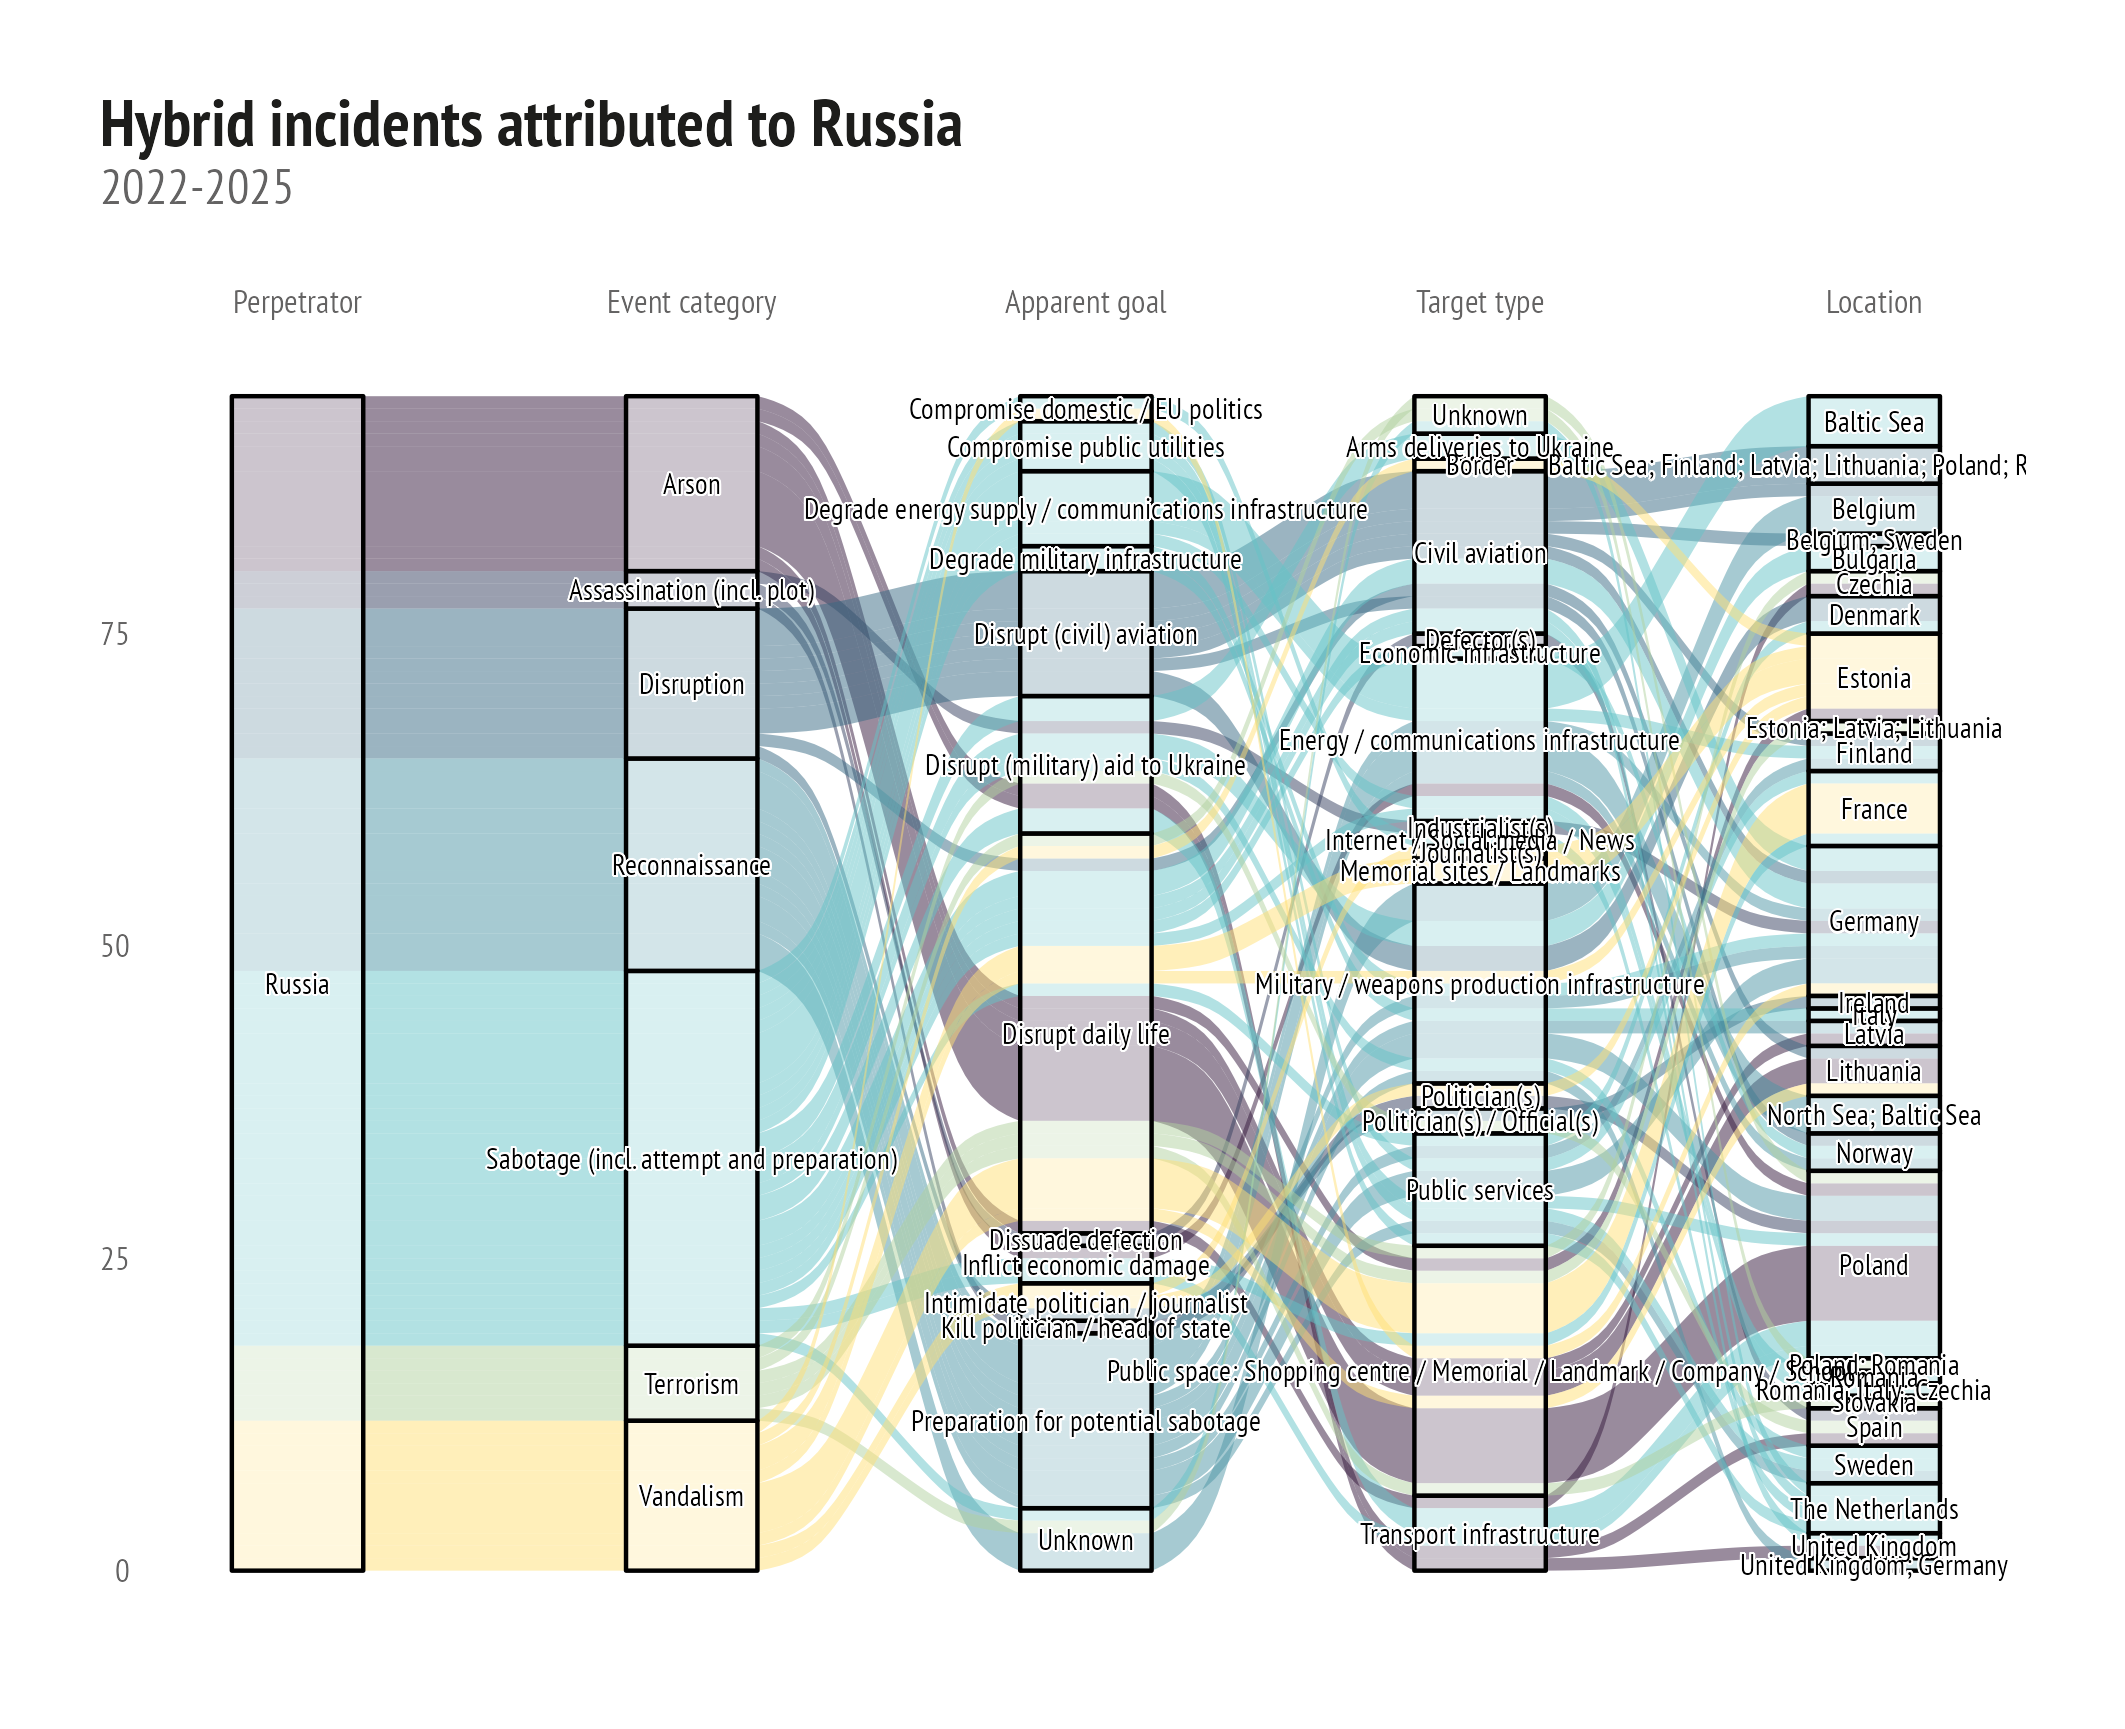
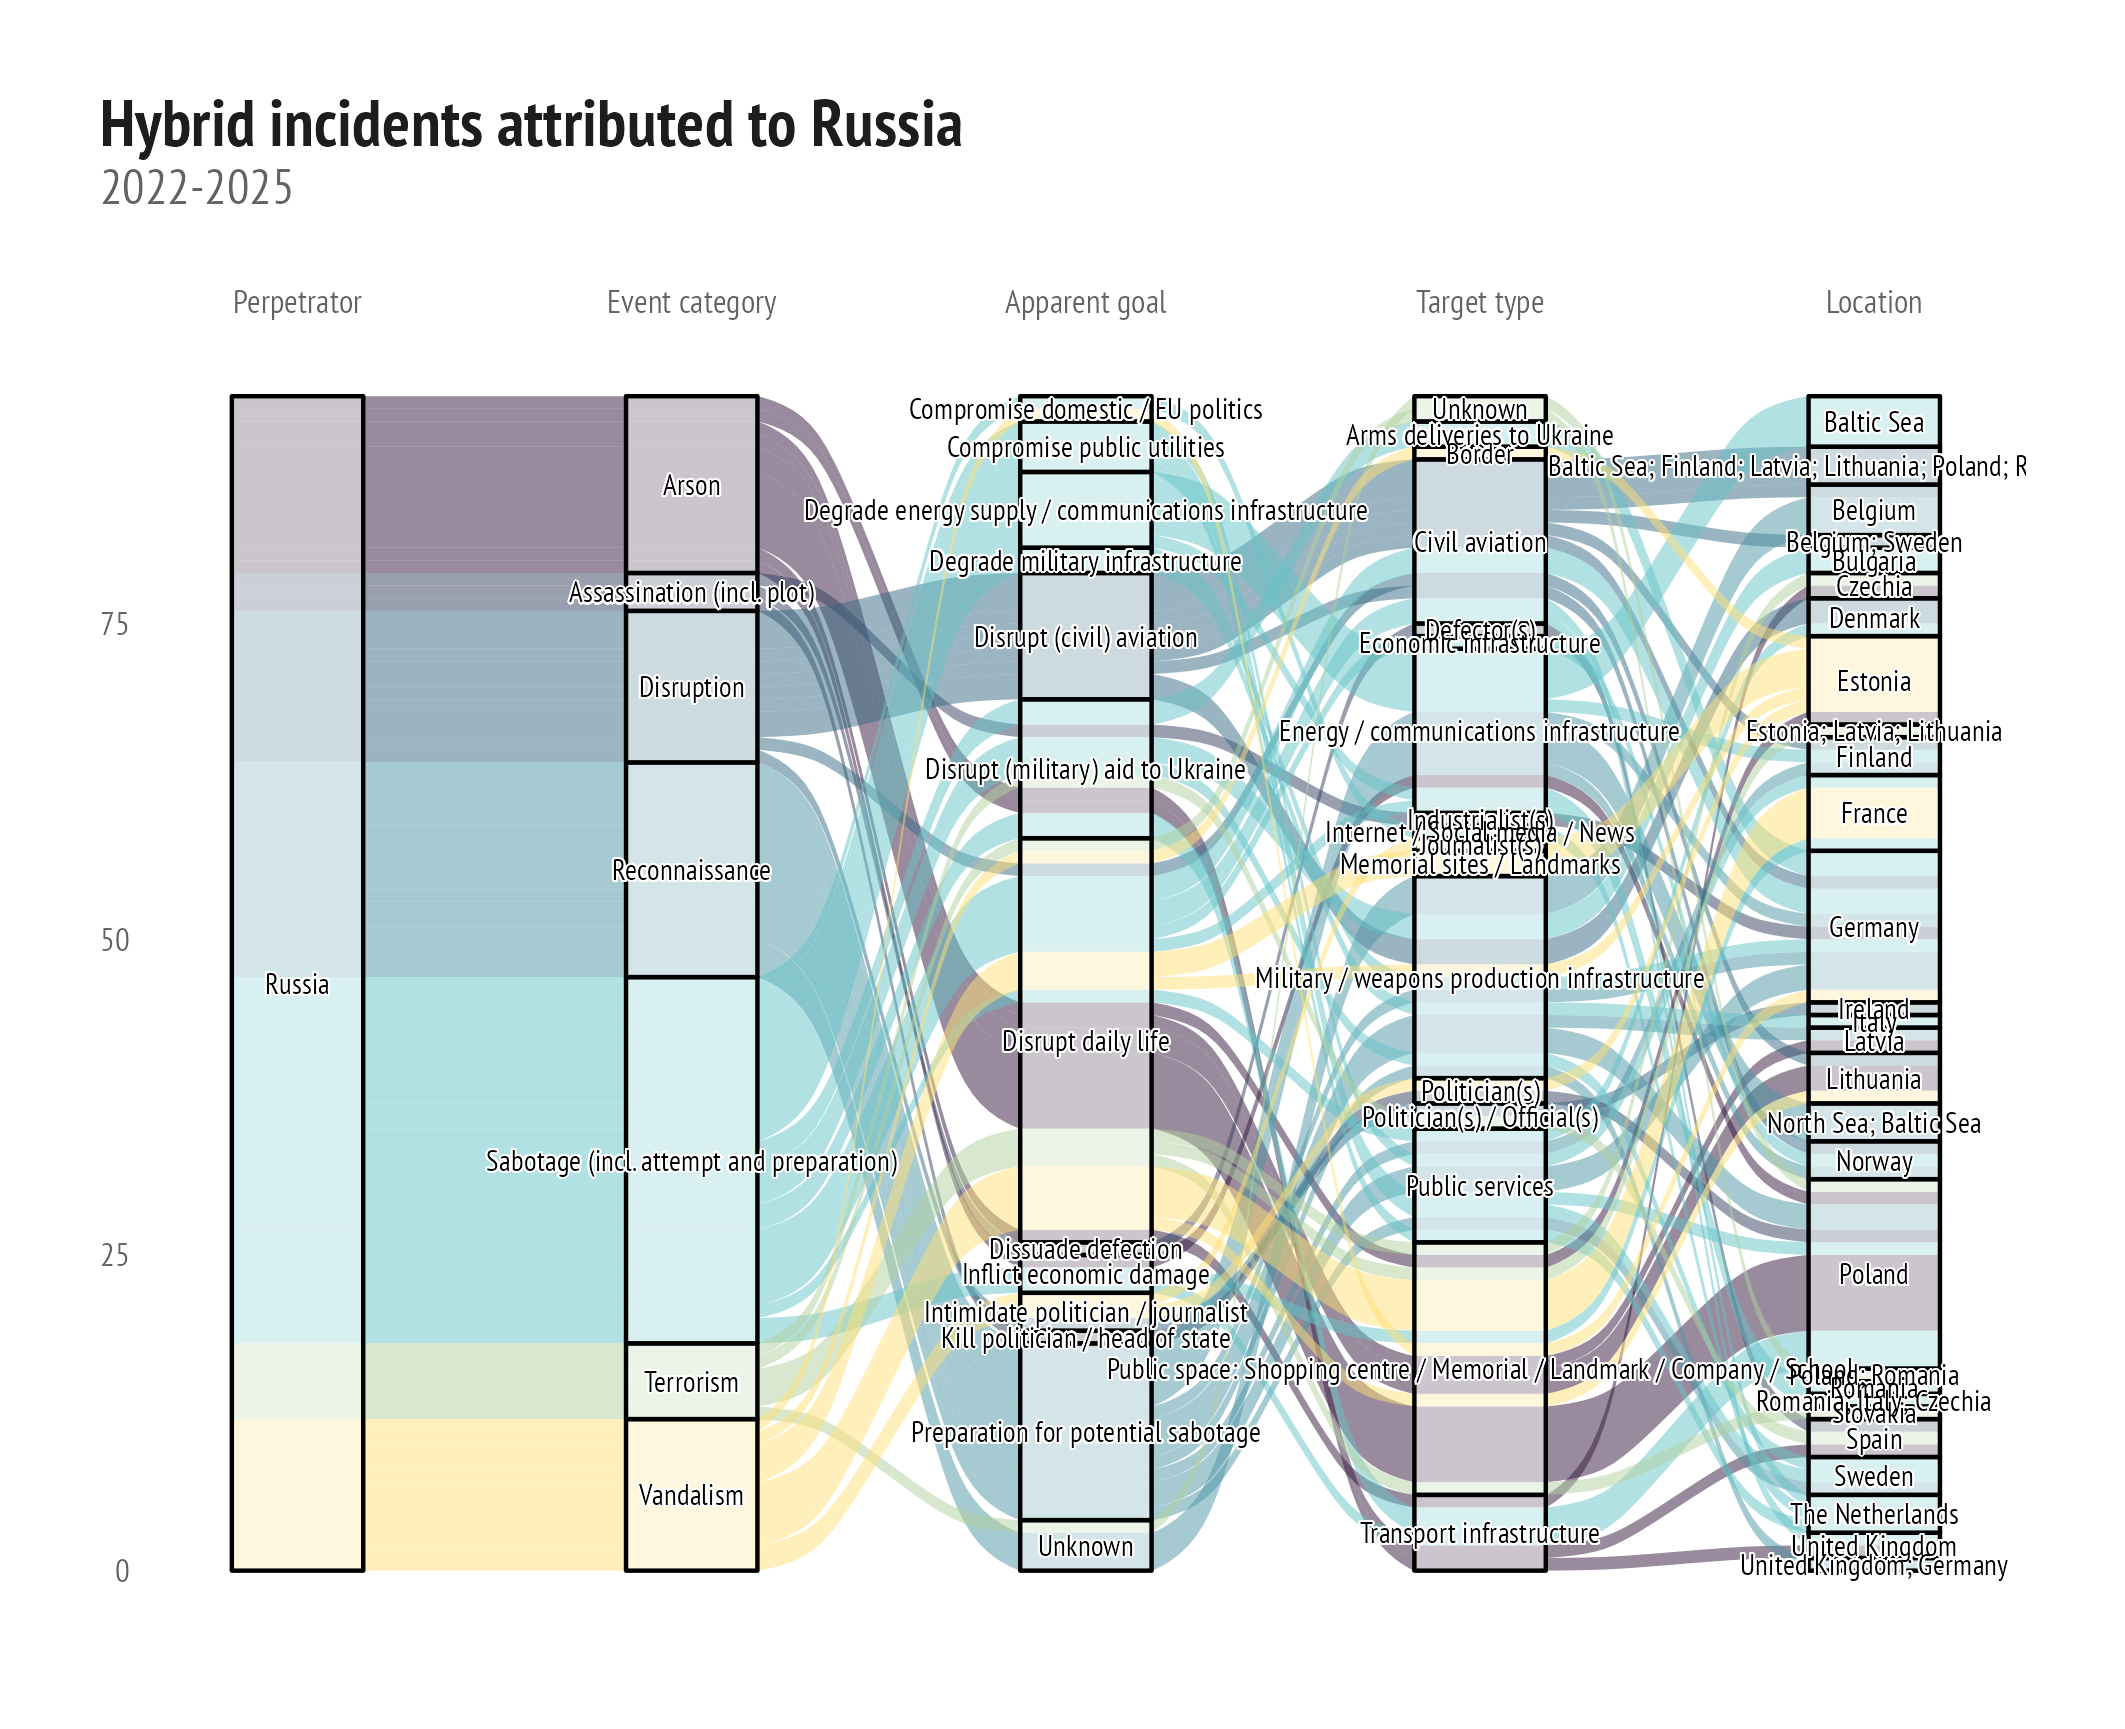
flourish rev 1

diff --git a/intro_flourish.html b/intro_flourish.html
@@ -88,14 +88,6 @@
 
 <p>The amount of this support surpasses that of any other international donor. The US comes distant second with an
     estimated € 120 billion worth of support according to the Kiel Institute Ukraine Support Tracker. </p>
-<p>&nbsp;</p>
-<p>&nbsp;</p>
-<p>&nbsp;</p>
-<p>&nbsp;</p>
-<p>&nbsp;</p>
-<p>&nbsp;</p>
-<p>&nbsp;</p>
-<p>&nbsp;</p>
 
 <!-- SCROLLY 2 - STEPPING IN -->
 <div id="graphic-two">
@@ -122,13 +114,6 @@
     </div>
 </div>
 
-<!-- MILITARY ASSISTANCE -->
-<div class="half-right-float">
-    <iframe src='https://flo.uri.sh/visualisation/29583465/embed' title='Interactive or visual content'
-        class='flourish-embed-iframe' frameborder='0' scrolling='no' style='width:100%;height:1200px;'
-        sandbox='allow-same-origin allow-forms allow-scripts allow-downloads allow-popups allow-popups-to-escape-sandbox allow-top-navigation-by-user-activation'></iframe>
-</div>
-
 <p>
     The EU has been able to increase its assistance to offset the winding down of US assistance since 2025. In addition
     to this increasing financial aid, Europeans have been assisting Ukraine’s military training and civilian security
@@ -138,6 +123,31 @@
     capital finance, production capacity and innovation shared among partners in order to better cover their defence
     needs.
 </p>
+
+<!-- MILITARY ASSISTANCE -->
+<div id="graphic-one">
+    <div class="flourish-embed" data-height="80vh" data-src="story/3720687"
+        data-url="https://flo.uri.sh/story/3720687/embed">
+        <script src="https://public.flourish.studio/resources/embed.js"></script>
+    </div>
+    <div class="space">
+        &nbsp;
+    </div>
+    <p><a href="#story/3720687/slide-1">card 1
+        </a></p>
+    <div class="space">
+        &nbsp;
+    </div>
+    <p><a href="#story/3720687/slide-2">card 2
+        </a>
+    </p>
+    <div class="space">
+        &nbsp;
+    </div>
+</div>
+
+
+
 <p>
     The EU also looks to the future. It is reserving € 100 billion for further support to Ukraine in the next
     Multiannual Financial Framework. However, Europeans’ fiscal space tightens and they need to spend more on own
@@ -159,29 +169,29 @@
     provided necessary governance reforms take place. A large part of the damage is due to deliberate targeting by
     Russia of Ukrainian civilian infrastructure which the Kremlin has wilfully scaled up over time.
 </p>
-<p>&nbsp;</p>
-<p>&nbsp;</p>
-<p>&nbsp;</p>
-<p>&nbsp;</p>
-<p>&nbsp;</p>
-<p>&nbsp;</p>
-<p>&nbsp;</p>
-<p>&nbsp;</p>
-<p>&nbsp;</p>
-<p>&nbsp;</p>
-<p>&nbsp;</p>
-<p>&nbsp;</p>
-<p>&nbsp;</p>
-<p>&nbsp;</p>
-<p>&nbsp;</p>
-<p>&nbsp;</p>
-<p>&nbsp;</p>
-<p>&nbsp;</p>
-<p>&nbsp;</p>
-<p>&nbsp;</p>
-<p>&nbsp;</p>
-<p>&nbsp;</p>
-<p>&nbsp;</p>
+
+
+
+
+
+
+
+
+
+
+
+
+
+
+
+
+
+
+
+
+
+
+
 
 <!-- SCROLLY 3 - INFRA, DAMAGE, NEEDS -->
 <div id="graphic-two">
@@ -267,13 +277,13 @@
     internal instability and drive a wedge between Ukraine and the EU.
 </p>
 
-<p>&nbsp;</p>
-<p>&nbsp;</p>
-<p>&nbsp;</p>
-<p>&nbsp;</p>
+
+
+
+
 
 <div class="half-right-float">
-    <iframe src='https://flo.uri.sh/visualisation/27434928/embed' title='Interactive or visual content'
+    <iframe src='https://flo.uri.sh/visualisation/29570110/embed' title='Interactive or visual content'
         class='flourish-embed-iframe' frameborder='0' scrolling='no' style='width:100%;height:400px;'
         sandbox='allow-same-origin allow-forms allow-scripts allow-downloads allow-popups allow-popups-to-escape-sandbox allow-top-navigation-by-user-activation'></iframe>
 </div>